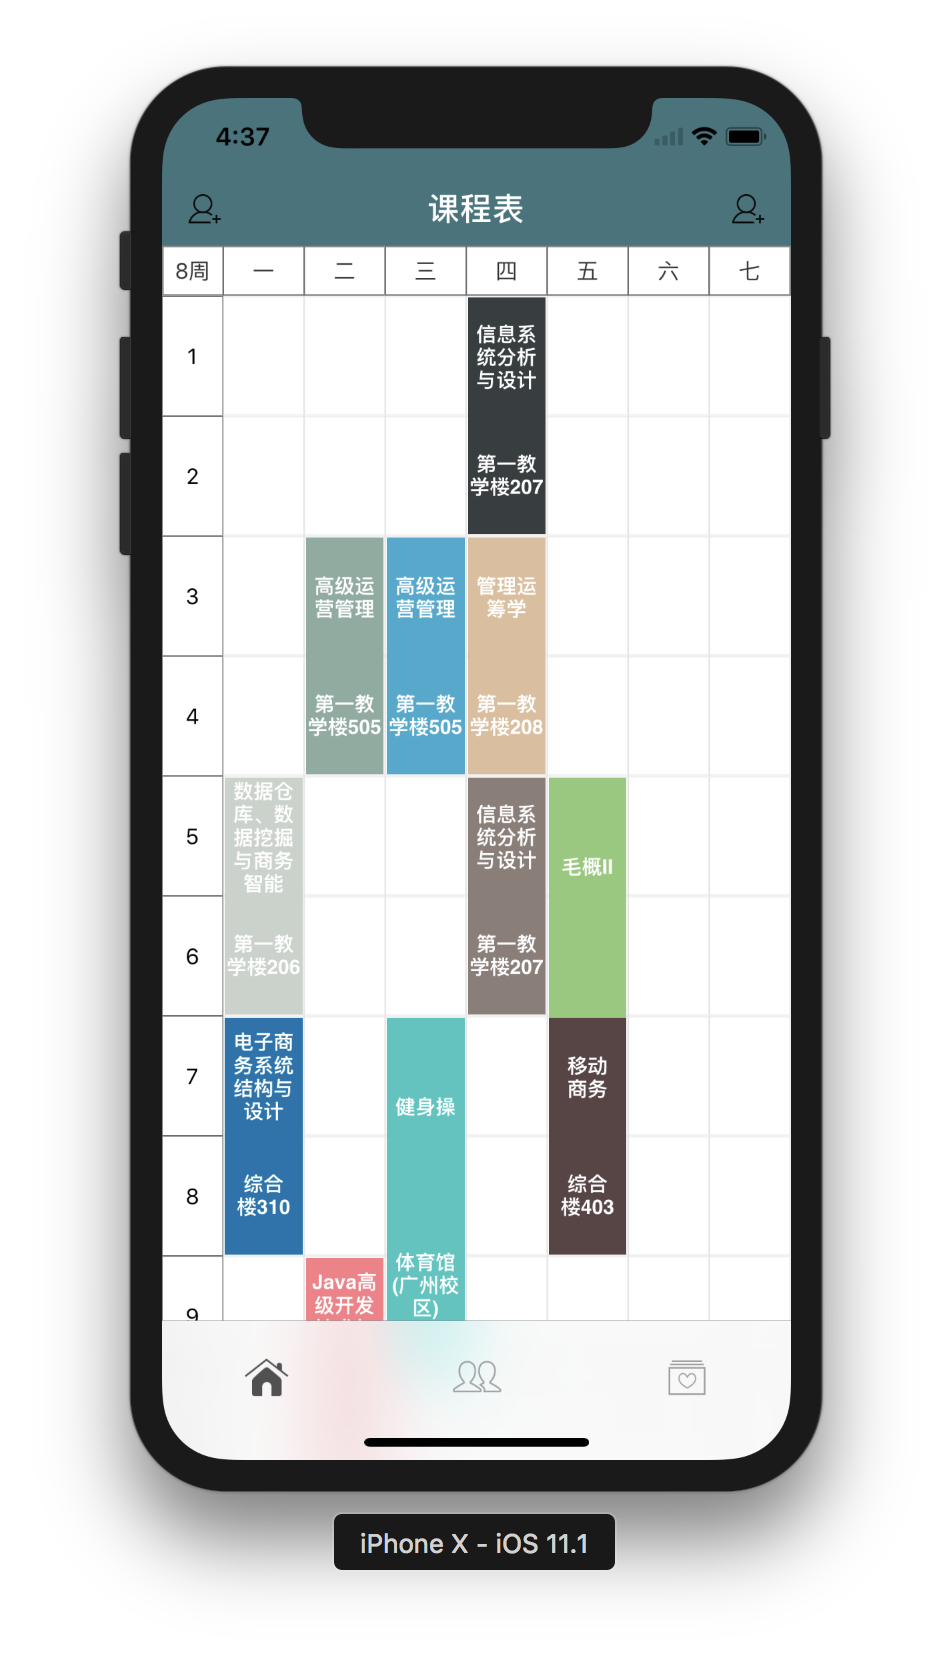
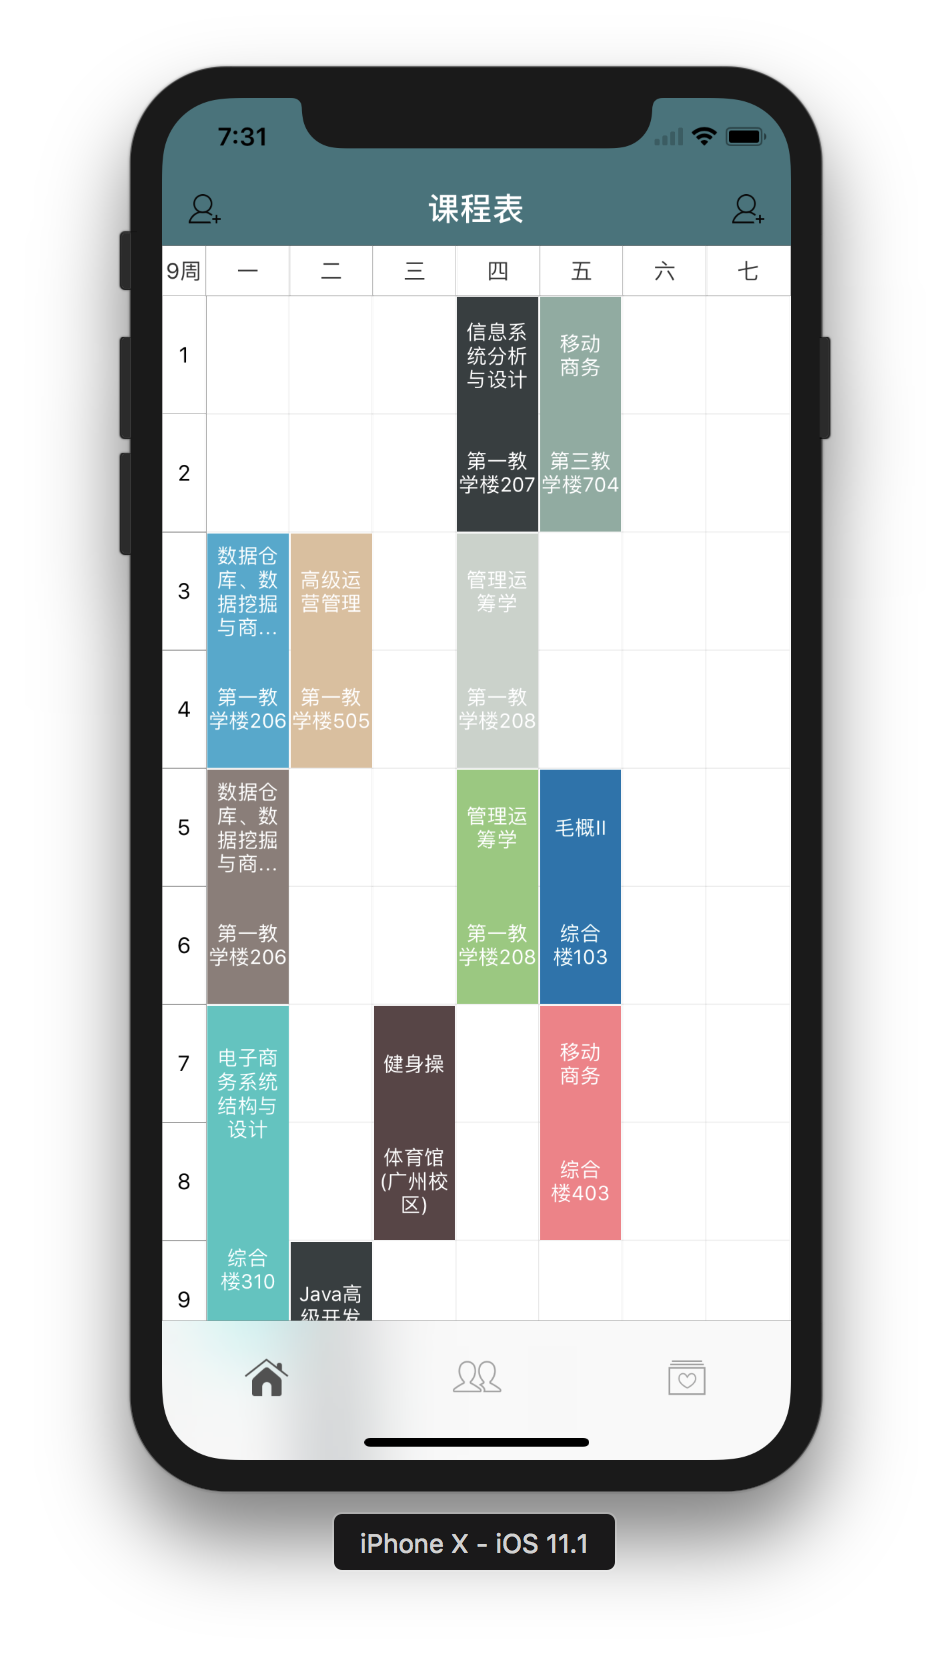
1.5.5

Changed region(s): [[0.1523, 0.1542, 0.6702, 0.8942], [0.7616, 0.1542, 0.792, 0.185], [0.2132, 0.0617, 0.2437, 0.0925]]

diff --git a/KWGdufe/Classes/MyClass/Control/KWMyClassViewController.m b/KWGdufe/Classes/MyClass/Control/KWMyClassViewController.m
@@ -68,13 +68,13 @@
     [self loadAllData];//加载所以数据
     
     //获取课程展示的宽度
-    addWidth= (KWSCreenW-30)/7.0 - 1;
+    addWidth= (KWSCreenW-20-8)/7.0;
     
     //获取星期的宽度
-    addWidthWeek= (KWSCreenW-30)/7.0;
+    addWidthWeek= (KWSCreenW-20)/7.0;
     
     //获取高度
-    addHeight = (KWSCreenH-rectStatus.size.height - rectNav.size.height - 30)/9.7;
+    addHeight = (KWSCreenH-rectStatus.size.height - rectNav.size.height - 20)/10;
     
     //设置星期一到星期日和第几周
     [self setWeekAndDays];
@@ -82,7 +82,7 @@
     //自定义流水布局——用于展示课表位置和大小
     self.course = [[KWCollectionViewLayout alloc] init];;
     self.course.width = addWidth;
-    _course.height = (KWSCreenH - rectStatus.size.height - rectNav.size.height - 30)/9.7;
+    _course.height = (KWSCreenH - rectStatus.size.height - rectNav.size.height - 20)/10;
     
     //缓存获取界面数据
     NSString *account = [wrapper myObjectForKey:(id)kSecAttrAccount];
@@ -206,14 +206,14 @@
     
     UIView *bgImageView = [[UIView alloc]initWithFrame:bgView.bounds];
     for (int j = 0; j<12; j++) {
-        x = 37;
+        x = 26.5;
         for(int i=1;i<=7;i++)
         {
             x--;
             @autoreleasepool {
                 flag = [[KWWeekDay alloc] initWithFrame:CGRectMake(x, 0+j*addHeight, addWidthWeek, addHeight)];
                 x+=addWidthWeek;
-                flag.alpha=0.2;//格子颜色深浅
+                flag.alpha=0.5;//格子颜色深浅
             }
             [bgImageView addSubview:flag];
         }
@@ -245,10 +245,10 @@
     NSArray *weekStr = @[@"一",@"二",@"三",@"四",@"五",@"六",@"七"];
     KWWeekDay *flag;
     CGFloat height = 30;
-    CGFloat x=37;
+    CGFloat x=27;
     CGRect rectStatus = [[UIApplication sharedApplication] statusBarFrame];
     CGRect rectNav = self.navigationController.navigationBar.frame;
-    flag = [[KWWeekDay alloc] initWithFrame:CGRectMake(0, rectStatus.size.height+rectNav.size.height, 37, height)];
+    flag = [[KWWeekDay alloc] initWithFrame:CGRectMake(0, rectStatus.size.height+rectNav.size.height, 26.5, height)];
     flag.alpha=0.8;
     [flag setDay:[NSString stringWithFormat:@"%@周",schoolWeek]];
     [self.view addSubview:flag];
@@ -257,6 +257,7 @@
     {
         x--;
         flag = [[KWWeekDay alloc] initWithFrame:CGRectMake(x, rectStatus.size.height+rectNav.size.height, addWidthWeek, height)];
+//        NSLog(@"%f",addWidthWeek);
         x+=addWidthWeek;
         flag.alpha=0.8;
         [flag setDay:weekStr[i-1]];
@@ -387,7 +388,7 @@
         Tag.num.text = NULL;
         return Tag;
     }else {
-        Tag.self.layer.borderWidth = 0.5;
+        Tag.self.layer.borderWidth = 0.25;
         Tag.num.text = [NSString stringWithFormat:@"%ld",indexPath.row+1];
         Tag.num.textColor = [UIColor blackColor];//节数颜色
         return Tag;
@@ -395,7 +396,6 @@
 }
 
 #pragma mark - UICollectionViewDelegate
-
 - (void)collectionView:(UICollectionView *)collectionView didSelectItemAtIndexPath:(NSIndexPath *)indexPath {
     KWMyClassMsgViewController *msgVc = [[KWMyClassMsgViewController alloc] init];
     KWScheduleModel *classModel = _scheduleModel[indexPath.row - 12];

diff --git a/KWGdufe/Classes/MyClass/View/KWMyClassCollectionCell.m b/KWGdufe/Classes/MyClass/View/KWMyClassCollectionCell.m
@@ -14,17 +14,23 @@
 - (instancetype)initWithFrame:(CGRect)frame
 {
     if(self=[super initWithFrame:frame]){
-        self.view = [[UIView alloc] initWithFrame:CGRectMake(1, 1,CGRectGetWidth(frame)-2, CGRectGetHeight(frame)-2)];
-        self.view.backgroundColor = [UIColor clearColor];
+//        self.view = [[UIView alloc] initWithFrame:CGRectMake(0.5, 0.5, CGRectGetWidth(frame)-1.5, CGRectGetHeight(frame)-1.5)];
+        self.view = [[UIView alloc] init];
 //        _view.layer.cornerRadius = 4;
 //        _view.layer.masksToBounds = YES;
         [self addSubview:_view];
+        [_view mas_makeConstraints:^(MASConstraintMaker *make) {
+            make.top.equalTo(self.mas_top).with.offset(0.5);
+            make.bottom.equalTo(self.mas_bottom).with.offset(-0.5);
+            make.left.equalTo(self.mas_left).with.offset(0.5);
+            make.right.equalTo(self.mas_right).with.offset(-0.5);
+        }];
         
         //课程名
         self.name = [[UILabel alloc] init];
         _name.textAlignment = NSTextAlignmentCenter;
-//        _name.font = [UIFont systemFontOfSize:12];
-        [_name setFont:[UIFont fontWithName:@"Helvetica-Bold" size:12]];
+        _name.font = [UIFont systemFontOfSize:12];
+//        [_name setFont:[UIFont fontWithName:@"Helvetica-Bold" size:12]];
         _name.numberOfLines = 0;
         _name.alpha = 1;
         _name.textColor = [UIColor whiteColor];
@@ -33,14 +39,14 @@
             make.top.equalTo(_view.mas_top);
             make.left.equalTo(_view.mas_left);
             make.right.equalTo(_view.mas_right);
-            make.bottom.equalTo(_view.mas_bottom).with.offset(-(_view.bounds.size.height * 0.5));
+            make.bottom.equalTo(_view.mas_bottom).with.offset(-(self.bounds.size.height * 0.5));
         }];
         
         //上课地点
         self.className = [[UILabel alloc]init];
         _className.textAlignment = NSTextAlignmentCenter;
-//        _className.font = [UIFont systemFontOfSize:12];
-        [_className  setFont:[UIFont fontWithName:@"Helvetica-Bold" size:12]];
+        _className.font = [UIFont systemFontOfSize:12];
+//        [_className  setFont:[UIFont fontWithName:@"Helvetica-Bold" size:12]];
         _className.numberOfLines = 0;
         _className.alpha = 1;
         _className.textColor = [UIColor whiteColor];

diff --git a/KWGdufe/Classes/MyClass/View/KWCollectionViewLayout.m b/KWGdufe/Classes/MyClass/View/KWCollectionViewLayout.m
@@ -103,7 +103,7 @@ struct Tag{
 
 - (UICollectionViewLayoutAttributes *)layoutAttributesForItemAtIndexPath:(NSIndexPath *)indexPath{
     UICollectionViewLayoutAttributes *attr = [UICollectionViewLayoutAttributes layoutAttributesForCellWithIndexPath:indexPath];
-    attr.frame = CGRectMake(36.5 + _width*(tag.weekDay-1),_height*(tag.start-1), _width, _height*(tag.end-tag.start+1));
+    attr.frame = CGRectMake(26.5 + _width*(tag.weekDay-1),_height*(tag.start-1), _width, _height*(tag.end-tag.start+1));
 //    NSLog(@"layoutAttributesForItemAtIndexPath = %@",NSStringFromCGRect(attributes.frame));
 //    NSLog(@"aaaaaa = %ld",aaaaaa++);
     return attr;
@@ -112,7 +112,7 @@ struct Tag{
 
 - (UICollectionViewLayoutAttributes*)layoutAttributesForSupplementaryViewOfKind:(NSString *)elementKind atIndexPath:(NSIndexPath *)indexPath{
     UICollectionViewLayoutAttributes *attr = [UICollectionViewLayoutAttributes layoutAttributesForSupplementaryViewOfKind:elementKind withIndexPath:indexPath];
-    attr.frame = CGRectMake(0, _height * indexPath.row, 36.5, _height);
+    attr.frame = CGRectMake(0, _height * indexPath.row, 26.5, _height);
 //    NSLog(@"layoutAttributesForSupplementaryViewOfKind = %@",NSStringFromCGRect(attributes.frame));
 //    NSLog(@"abc = %ld",abc++);
     return attr;

diff --git a/KWGdufe/Classes/MyClass/View/KWWeekDay.m b/KWGdufe/Classes/MyClass/View/KWWeekDay.m
@@ -33,7 +33,7 @@
     day.textColor = [UIColor blackColor];//日期字体
     day.font = [UIFont systemFontOfSize:13];
     day.textAlignment = NSTextAlignmentCenter;
-    self.layer.borderWidth = 1;
+    self.layer.borderWidth = 0.25;
     self.layer.borderColor = [Utils colorWithHexString:@"#696969"].CGColor;
     self.clipsToBounds = true;
     [self addSubview:day];

diff --git a/KWGdufe/Classes/MyClass/View/KWReusableView.m b/KWGdufe/Classes/MyClass/View/KWReusableView.m
@@ -17,7 +17,6 @@
         _num.textAlignment = NSTextAlignmentCenter;
         _num.font = [UIFont systemFontOfSize:13];
         [self addSubview:_num];
-        self.layer.borderWidth = 0.5;
         self.layer.borderColor = [Utils colorWithHexString:@"#696969"].CGColor;
     }
     return self;
